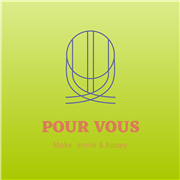
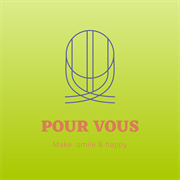
タブアイコンをPOUR VOUSロゴに戻した（誤ってプになっていたのを修正）。

diff --git a/index.html b/index.html
@@ -6,10 +6,10 @@
 <meta http-equiv="Pragma" content="no-cache">
 <meta http-equiv="Expires" content="0">
 <title>プゥル・ヴー 納品書発行システム</title>
-<link rel="icon" href="/pourvoussystem/icons/favicon-32.png?v=20260928" type="image/png" sizes="32x32">
-<link rel="icon" href="/pourvoussystem/icons/icon-256.png?v=20260928" type="image/png" sizes="256x256">
-<link rel="shortcut icon" href="/pourvoussystem/icons/desktop.ico?v=20260928" type="image/x-icon">
-<link rel="apple-touch-icon" href="/pourvoussystem/icons/apple-touch-icon.png?v=20260928">
+<link rel="icon" href="/pourvoussystem/icons/favicon-32.png?v=20260928c" type="image/png" sizes="32x32">
+<link rel="icon" href="/pourvoussystem/icons/icon-256.png?v=20260928c" type="image/png" sizes="256x256">
+<link rel="shortcut icon" href="/pourvoussystem/icons/desktop.ico?v=20260928c" type="image/x-icon">
+<link rel="apple-touch-icon" href="/pourvoussystem/icons/apple-touch-icon.png?v=20260928c">
 <link href="https://fonts.googleapis.com/css2?family=Noto+Sans+JP:wght@400;500;600&display=swap" rel="stylesheet">
 <script src="https://cdn.jsdelivr.net/npm/exceljs@4.4.0/dist/exceljs.min.js"></script>
 <script src="https://cdn.jsdelivr.net/npm/chart.js@4.4.7/dist/chart.umd.min.js"></script>
